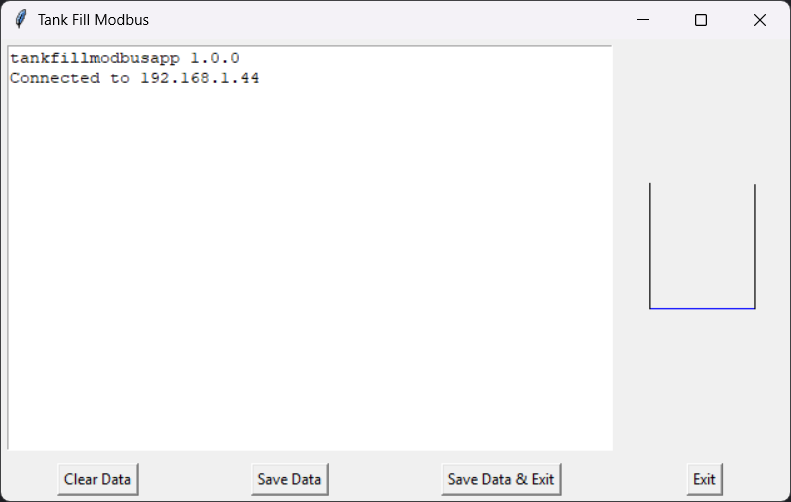
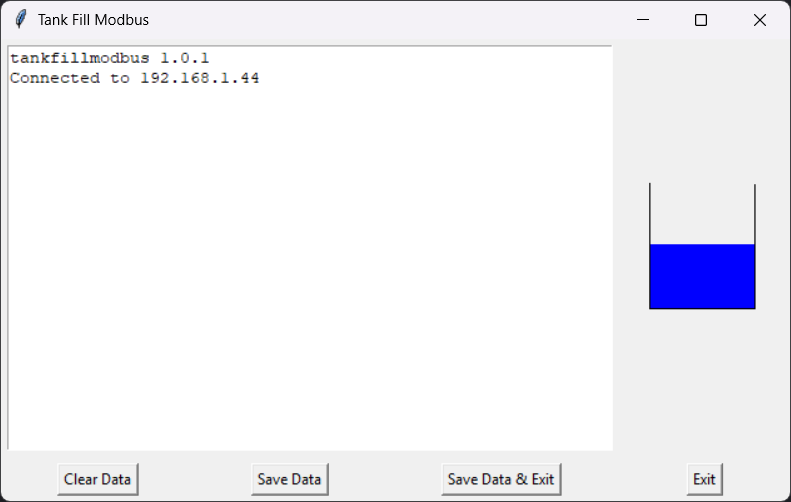
Fixed exit bugs and updated README.md.

Changed region(s): [[0.8192, 0.4781, 0.9709, 0.6275], [0.182, 0.0896, 0.3034, 0.1494]]

diff --git a/src/tank_fill_modbus/tankfillmodbus.py b/src/tank_fill_modbus/tankfillmodbus.py
@@ -1,13 +1,13 @@
 '''
 TankFillModbus - Tank fill simulation that communicates with a PLC via Modbus TCP.
-tankfillmodbusapp.py
+tankfillmodbus.py
 
 Brad L. Kicklighter, P.E.
 1-3-2022
 '''
 
 __author__ = "Brad L. Kicklighter, P.E."
-__version__ = "1.0.0"
+__version__ = "1.0.1"
 
 import tkinter as tk
 from tkinter import ttk
@@ -65,7 +65,8 @@ class App(tk.Tk):
     self.save_exit_btn.grid(row=1, column=2, padx=5, pady=5)
     self.exit_btn = tk.Button(self, text='Exit', command=self.exit_app)
     self.exit_btn.grid(row=1, column=3, padx = 5, pady=5)
-    self.write_to_log('tankfillmodbusapp ')
+    self.protocol("WM_DELETE_WINDOW", self.exit_app)
+    self.write_to_log('tankfillmodbus ')
     self.write_to_log(__version__)
     self.write_to_log('\n')
     self.client = ModbusClient.ModbusTcpClient(host=HOST)
@@ -132,7 +133,8 @@ class App(tk.Tk):
     self.exiting = True
     if self.client != None and self.client.is_socket_open() == True:
       self.client.close()
-    self.t.end()
+    if self.t != None:
+      self.t.end()
     self.destroy()
     
   def update_tank_animation(self):

diff --git a/README.md b/README.md
@@ -32,7 +32,7 @@ The CLICK PLC must have the Modbus TCP Server enabled. This should be enabled by
 Figure 1: Modbus TCP Setup showing that the Modbus TCP Server is enabled.
 
 ## Using the Simulation Program
-The PC must have Python and this package installed. When this package is installed, a command line script is created to run this program.
+The PC must have Python and this package (tank_fill_modbus) installed. When this package is installed, a command line script is created to run this program (see Running the Simulation Program).
 
 ### Before Running the Simulation Program
 Before running the program, perform the following steps:
@@ -41,13 +41,13 @@ Before running the program, perform the following steps:
 3. Download the program to the HMI, if needed.
 
 ### Running the Simulation Program
-The program has a graphical user interface (GUI) and will also open a console window when run. To run the program, open a command prompt and enter the following command: 
+The program has a graphical user interface (GUI). To run the program, open a command prompt and enter the following command: 
 ```shell
 tankfillmodbus
 ```
 If the trainer is not attached and powered on prior to running the program, the program will display a message ("Not connected") and you must exit the program, connect the trainer, power up the trainer, and run the program again.
 
-While the program is running, it is simulating the tank, capturing data, and communicating with the PLC. The state of the tank is updated by the simulation every 100 ms, data is collected every time the tank state is updated, and the program sends and receives data with the PLC continuously.
+While the program is running, it is simulating the tank, capturing data, and communicating with the PLC. The state of the tank is updated by the simulation every 50 ms, data is collected every time the tank state is updated, and the program sends and receives data with the PLC continuously.
 
 Figure 2 shows the GUI for the program.
 
@@ -57,19 +57,17 @@ Figure 2: Tank Fill Modbus graphical user interface (GUI). The program name and 
 
 **Message Area** — Messages are displayed in the area below the window title.
 
-**Tank Area** - An outline of the tank is shown and the blue area indicates the height of the water in the tank (in Figure 2, the tank is empty).
+**Tank Area** - An outline of the tank is shown and the blue area indicates the height of the water in the tank.
 
 **Clear Data** — Pressing this button clears the current list of collected data and then resumes collecting data. After the data has been cleared, "Data cleared" is displayed in the message area.
 
-**Save Data** — Pressing this button causes the current list of collected data to be saved to a comma-separated values (CSV) data file in your documents folder (the file path is displayed in the messages area). After saving the data, the list is cleared, data collection resumes, and the path to the file along with the file name is displayed in the message area. CSV files are stored in your documents folder as reported by Windows.
+**Save Data** — Pressing this button causes the current list of collected data to be saved to a comma-separated values (CSV) data file in your documents folder. After saving the data, the list is cleared, data collection resumes, and the path to the file along with the file name is displayed in the message area. CSV files are stored in your documents folder as reported by Windows.
 
 **Save Data & Exit** — Pressing this button saves the collected data to a CSV file and the program exits.
 
 **Exit** — Pressing this button causes the program to exit without saving collected data.
 
 You may clear and save data as often as needed while using the system.
-
-Note that you will have to manually close the console window after exiting from the program.
 
 ### Data File
 The CSV data file contains data records captured each time the program calculates a new system state each time step. Each data record has the time in seconds since the program started, the pump speed, the water height, and the set point. Microsoft Excel can open CSV files directly. The file is named `simulation data YYmmdd-HHMMSS.csv` where `YYmmdd-HHMMSS` is the current date and time when the file was created. Figure 3 shows an example of a CSV file opened in Microsoft Excel.
